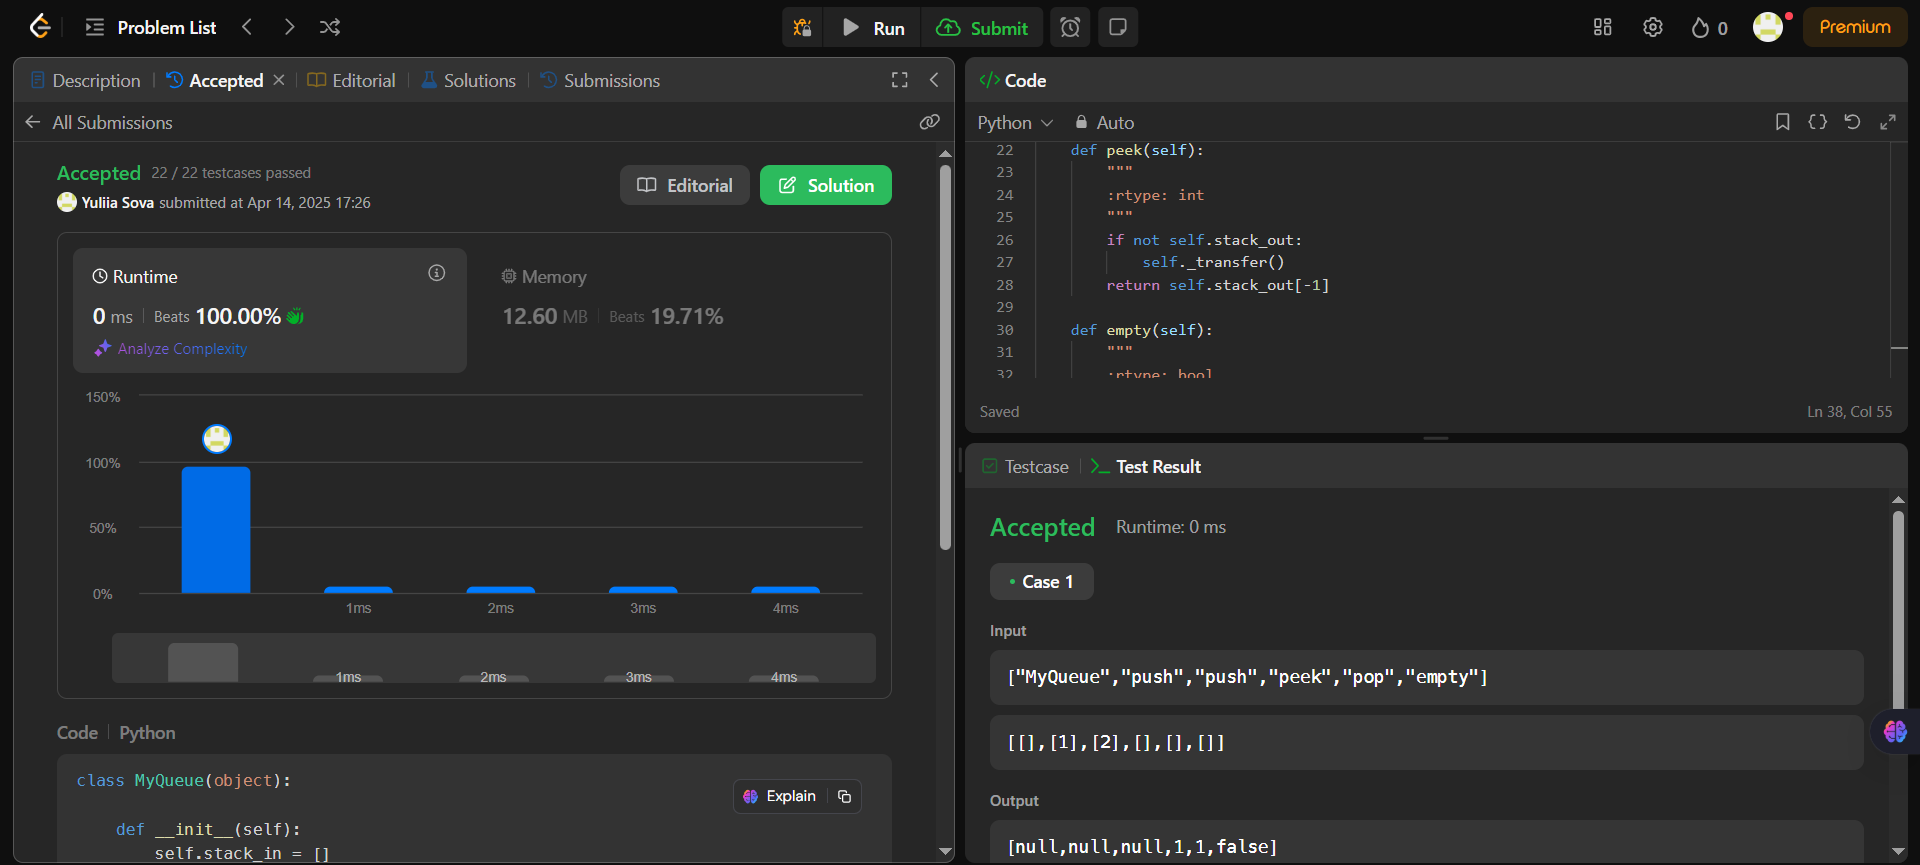
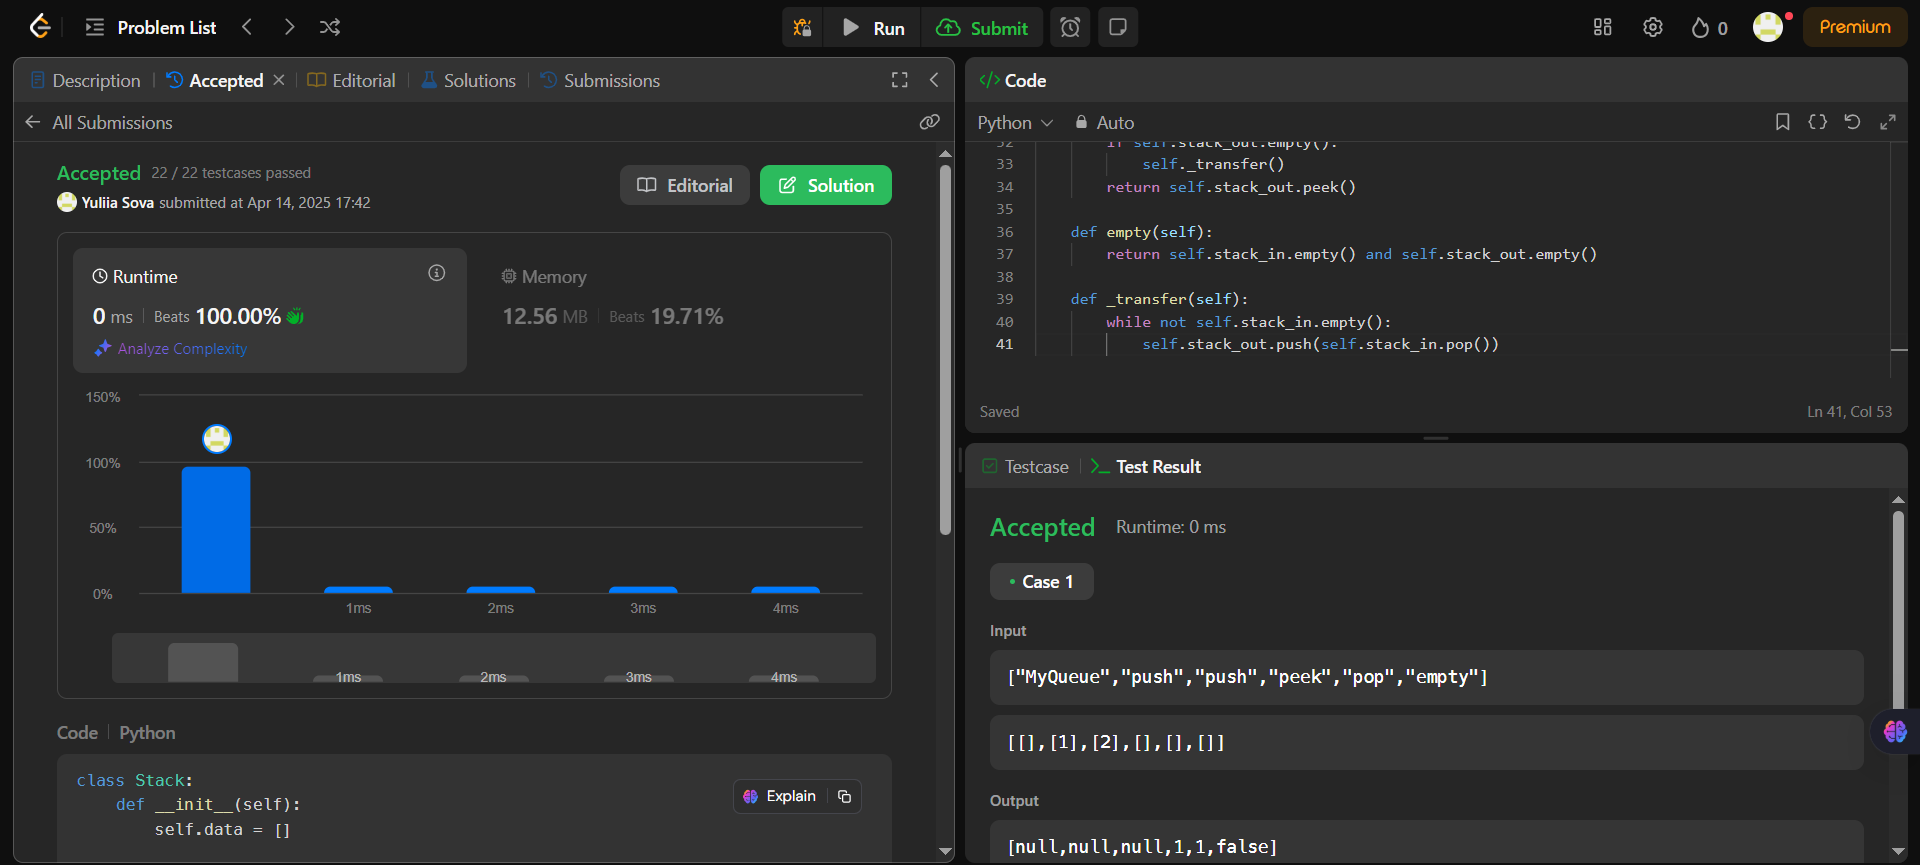
Implement Queue using Stacks 2

diff --git a/Queue_by_Stacks/queue.py b/Queue_by_Stacks/queue.py
@@ -3,44 +3,47 @@ Implement Queue using Stacks
 """
 
 
-class MyQueue(object):
-
+class Stack:
     def __init__(self):
-        self.stack_in = []
-        self.stack_out = []
+        self.data = []
 
     def push(self, x):
-        """
-        :type x: int
-        :rtype: None
-        """
-        self.stack_in.append(x)
+        self.data.append(x)
 
     def pop(self):
-        """
-        :rtype: int
-        """
-        if not self.stack_out:
+        return self.data.pop()
+
+    def peek(self):
+        return self.data[-1]
+
+    def empty(self):
+        return len(self.data) == 0
+
+
+class MyQueue:
+    def __init__(self):
+        self.stack_in = Stack()
+        self.stack_out = Stack()
+
+    def push(self, x):
+        self.stack_in.push(x)
+
+    def pop(self):
+        if self.stack_out.empty():
             self._transfer()
         return self.stack_out.pop()
 
     def peek(self):
-        """
-        :rtype: int
-        """
-        if not self.stack_out:
+        if self.stack_out.empty():
             self._transfer()
-        return self.stack_out[-1]
+        return self.stack_out.peek()
 
     def empty(self):
-        """
-        :rtype: bool
-        """
-        return not self.stack_in and not self.stack_out
+        return self.stack_in.empty() and self.stack_out.empty()
 
     def _transfer(self):
-        while self.stack_in:
-            self.stack_out.append(self.stack_in.pop())
+        while not self.stack_in.empty():
+            self.stack_out.push(self.stack_in.pop())
 
 
 myQueue = MyQueue()
